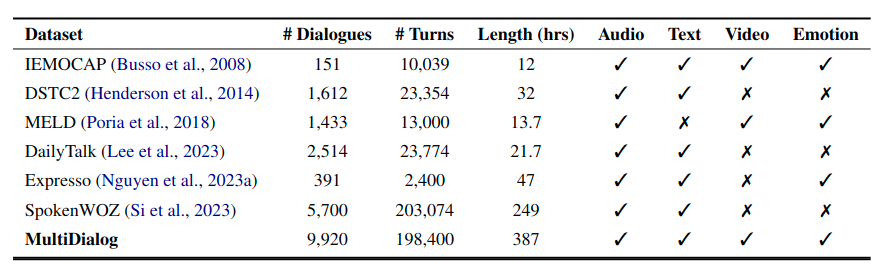
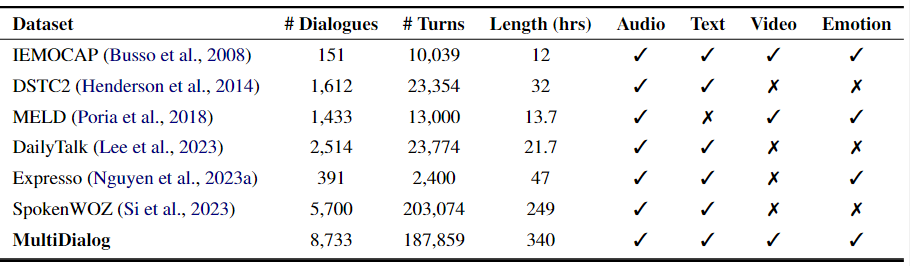
Update details

diff --git a/index.html b/index.html
@@ -1,4 +1,4 @@
-        <!DOCTYPE html>
+<!DOCTYPE html>
 <html>
 <head>
     <meta charset="utf-8">
@@ -53,9 +53,9 @@
                         <h1 class="title is-2 publication-title">for Face-to-Face Conversation</h1>
                         <div class="is-size-5 publication-authors">
                             <span class="author-block">
-                            <a href="https://sites.google.com/view/sejinpark/sejinpark">Se Jin Park</a>,</span>
+                            <a href="https://sites.google.com/view/sejinpark/sejinpark">Se Jin Park</a><sup>*</sup>,</span>
                                         <span class="author-block">
-                            <a href="https://chae-won-kim.github.io/">Chae Won Kim</a>,</span>
+                            <a href="https://chae-won-kim.github.io/">Chae Won Kim</a><sup>*</sup>,</span>
                                         <span class="author-block">
                             <a>Hyeongseop Rha</a>,</span>
                                         <span class="author-block">
@@ -75,7 +75,7 @@
                         </div>
 
                         <div class="is-size-5 publication-authors">
-                            <span class="author-block" style="font-size: 15px;">(<sup>*</sup>Correspondence)</span>
+                            <span class="author-block" style="font-size: 15px;">(<sup>*</sup>Equal Contributor)</span>
                         </div>
 
                         <div class="column has-text-centered">
@@ -93,7 +93,7 @@
 
                                 <!-- Code Link. -->
                                 <span class="link-block">
-                                    <a 
+                                    <a href="https://github.com/MultiDialog/MultiDialog"
                                     class="external-link button is-normal is-rounded is-dark">
                                     <span class="icon">
                                         <i class="fab fa-github"></i>
@@ -102,17 +102,26 @@
                                     </a>
                                 </span>
 
-
+                                <!-- Dataset Link. -->
                                 <span class="link-block">
-                                    <a href="https://kaistackr-my.sharepoint.com/:f:/g/personal/jinny960812_kaist_ac_kr/EoRzehH2WG1IudFq2C1N-nwBR0SEw8Dg_hbmYuc7OMD-rg"
+                                    <a href="https://huggingface.co/datasets/IVLLab/MultiDialog"
                                     class="external-link button is-normal is-rounded is-dark">
                                     <span class="icon">
                                         <i class="fa fa-database"></i>
                                     </span>
-                                    <span>Dataset</span>
+                                    <span>Audio Dataset</span>
                                     </a>
                                 </span>
-                                <p>*We initially released a subset of our test set.<br>For full access, please contact <a href="mailto:jinny960812@kaist.ac.kr">jinny960812@kaist.ac.kr</a></p>
+
+                                <span class="link-block">
+                                    <a href="https://drive.google.com/drive/u/1/folders/1RPMwVHU34yX0R_HbxAWmxF2EHy961HA3"
+                                    class="external-link button is-normal is-rounded is-dark">
+                                    <span class="icon">
+                                        <i class="fa fa-database"></i>
+                                    </span>
+                                    <span>Video Dataset</span>
+                                    </a>
+                                </span>
                             </div>
                         </div>
                     </div>
@@ -133,14 +142,14 @@
                             It processes audio-visual speech from user input and generates audio-visual speech as the response, 
                             marking the initial step towards creating an avatar chatbot system without relying on intermediate text. 
                             To this end, we newly introduce <b>MultiDialog</b>, the first large-scale multimodal (i.e., audio and visual) 
-                            spoken dialogue corpus containing 387 hours of approximately 10,000 dialogues, 
+                            spoken dialogue corpus containing 340 hours of approximately 9,000 dialogues, 
                             recorded based on the open domain dialogue dataset, TopicalChat. 
                             The MultiDialog contains parallel audio-visual recordings of conversation partners acting according to the given script with emotion annotations, 
                             which we expect to open up research opportunities in multimodal synthesis. 
                             Our Face-to-Face spoken dialogue model incorporates a textually pretrained large language model 
                             and adapts it into the audio-visual spoken dialogue domain by incorporating speech-text joint pretraining. 
                             Through extensive experiments, we validate the effectiveness of our model in facilitating a face-to-face conversation. 
-                            All the data will be open-sourced. 
+                            Data is available at <a href="https://huggingface.co/datasets/IVLLab/MultiDialog">https://huggingface.co/datasets/IVLLab/MultiDialog</a>. 
                         </p>
                     </div>
                 </div>
@@ -159,7 +168,7 @@
                     <h5 class="title is-4">MultiDialog Dataset</h5>
                         
                     <div class="content has-text-justified">
-                        <img class="columns is-centered has-text-centered" src="./static/images/dataset.png" alt="Teaser" width="70%"
+                        <img class="columns is-centered has-text-centered" src="./static/images/dataset.png" alt="Teaser" width="80%"
                             style="margin:0 auto">
                         <br>
                         <figcaption>
@@ -170,7 +179,7 @@
                             </p>
                         </figcaption>
                         <br>
-                        <img class="columns is-centered has-text-centered" src="./static/images/multidialog.png" alt="Teaser" width="30%"
+                        <img class="columns is-centered has-text-centered" src="./static/images/multidialog.png" alt="Teaser" width="80%"
                             style="margin:0 auto">
                         <br>
                         <figcaption>
@@ -200,7 +209,7 @@
                             <b>Post-Processing.</b>
                                 We had an annotator go through the audio-visual recordings to manually adjust the misalignments by sliding the start time. 
                                 We segmented the recordings into conversations and turns based on the recorded timesteps of each turn. The MultiDialog dataset consists of 
-                                approximately 400 hours of audio-visual videos of 10,000 dialogues between 6 pairs of conversation partners. The final statistics of our 
+                                approximately 340 hours of audio-visual videos of 9,000 dialogues between 6 pairs of conversation partners. The final statistics of our 
                                 dataset are shown in Table 2. 
                         </li>
                         </ul>     
